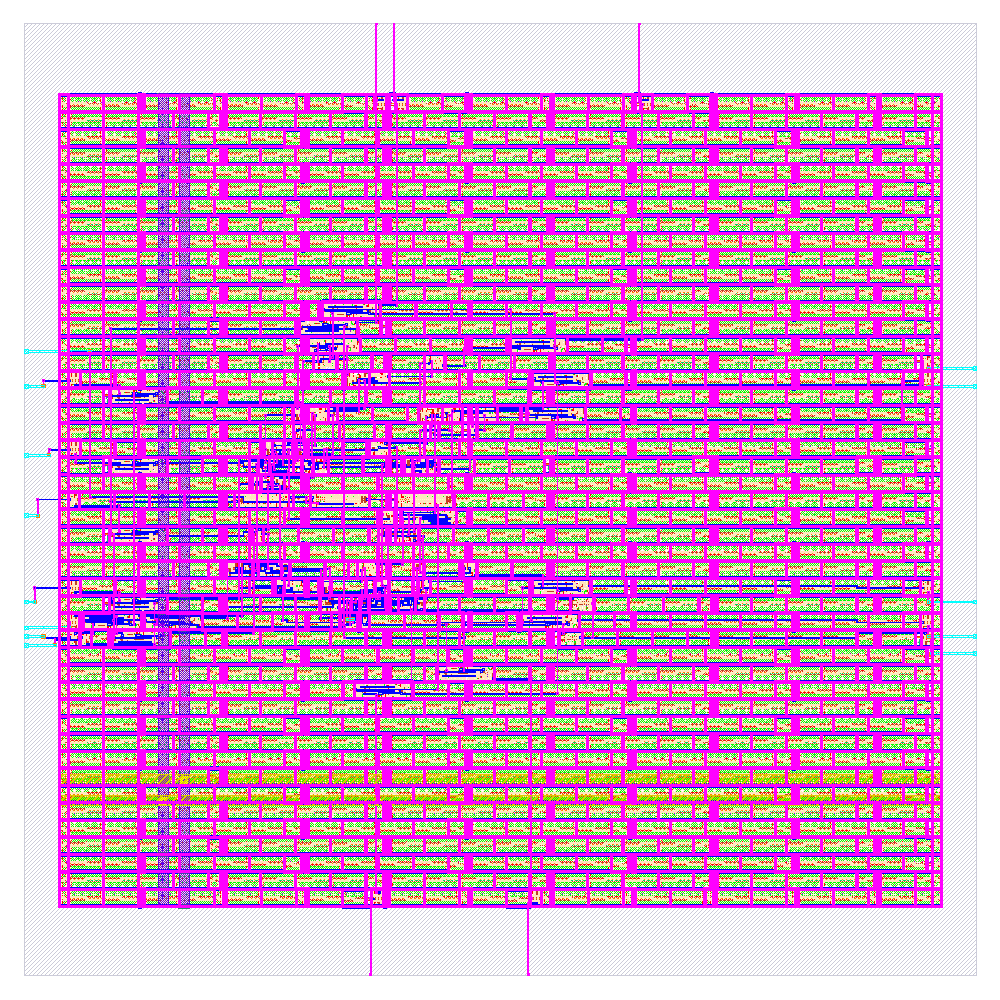
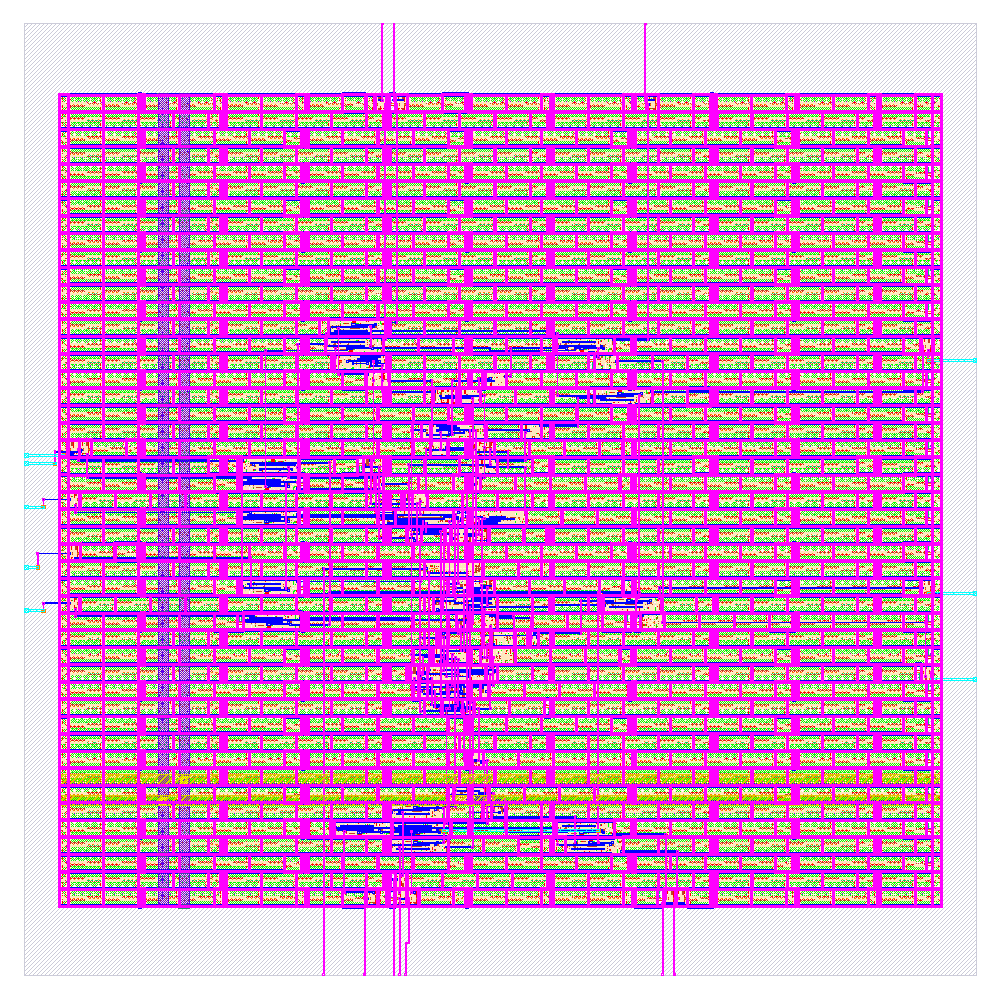
Add KLayout batch renderer for layout screenshots
render_layout.py loads pnr/mult_array.gds with the SKY130 layer
properties and writes the whole-die and close-up views used in the
report, so the screenshots can be regenerated from the final GDSII.

diff --git a/render_layout.py b/render_layout.py
@@ -1,0 +1,26 @@
+# Render the final GDSII to the two report screenshots with KLayout in batch mode.
+# Run inside IIC-OSIC-TOOLS from the repository root:
+#   klayout -zz -r render_layout.py
+import os
+import klayout.db as db
+import klayout.lay as lay
+
+gds = "pnr/mult_array.gds"
+lyp = os.path.join(os.environ.get("PDK_ROOT", "/foss/pdks"), "sky130A/libs.tech/klayout/tech/sky130A.lyp")
+
+view = lay.LayoutView()
+view.set_config("background-color", "#ffffff")
+view.set_config("grid-visible", "false")
+view.set_config("text-visible", "false")
+view.load_layout(gds, True)
+view.load_layer_props(lyp)
+view.max_hier()
+
+# Whole 150 um x 150 um die.
+view.zoom_fit()
+view.save_image("report/layout_whole_die.png", 1000, 1000)
+
+# Close-up near the core centre: standard-cell rows, power rails and routed metal.
+view.zoom_box(db.DBox(55, 55, 95, 85))
+view.save_image("report/layout_zoomed.png", 1200, 900)
+print("wrote report/layout_whole_die.png and report/layout_zoomed.png")
